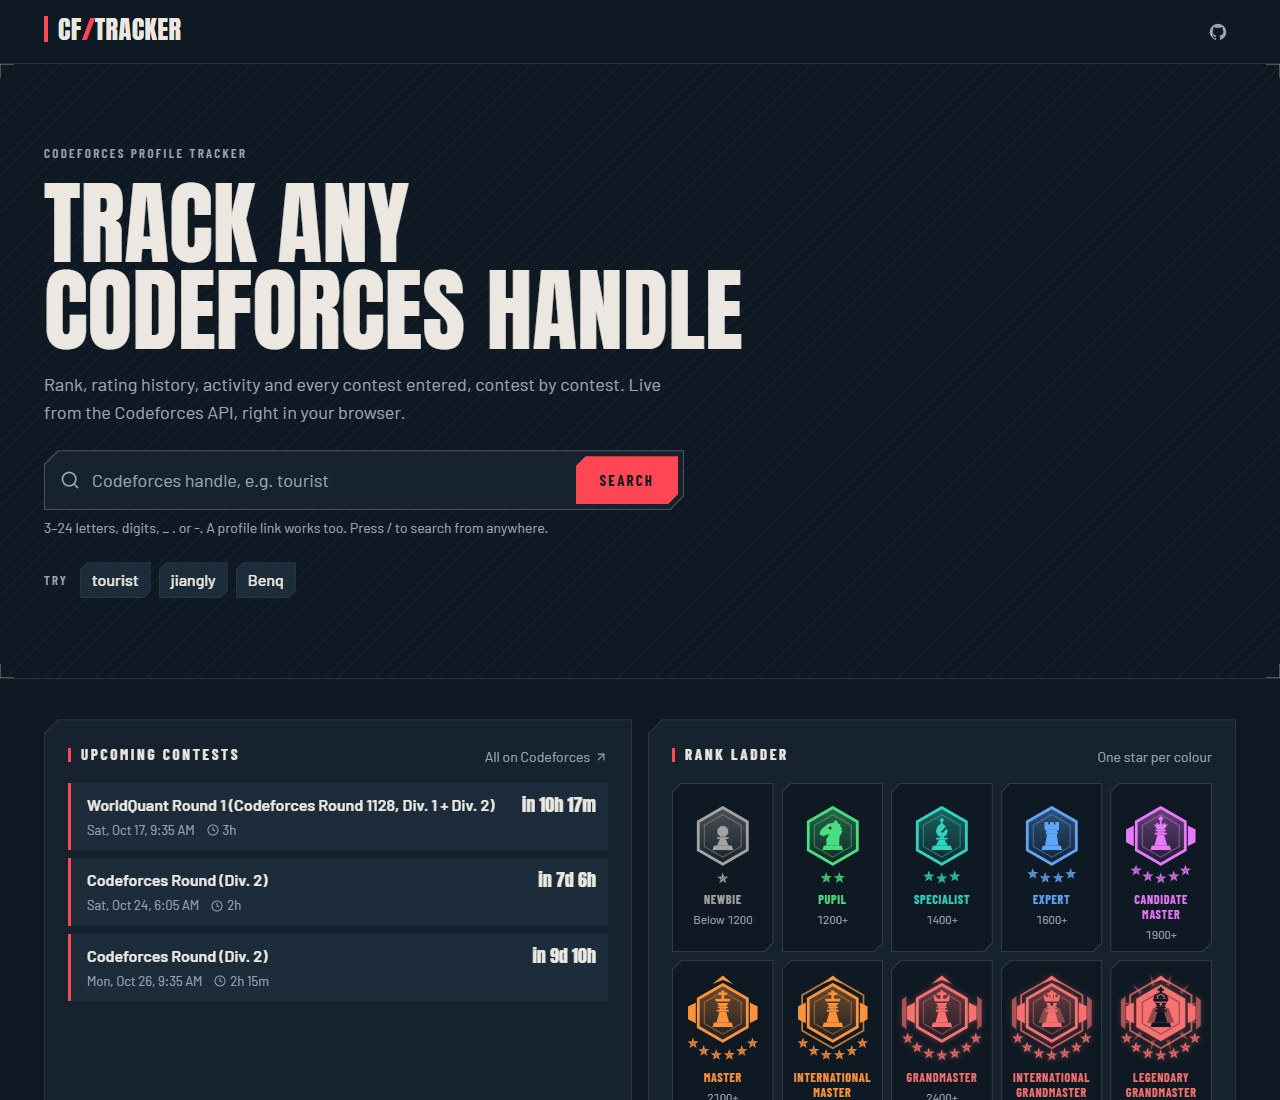
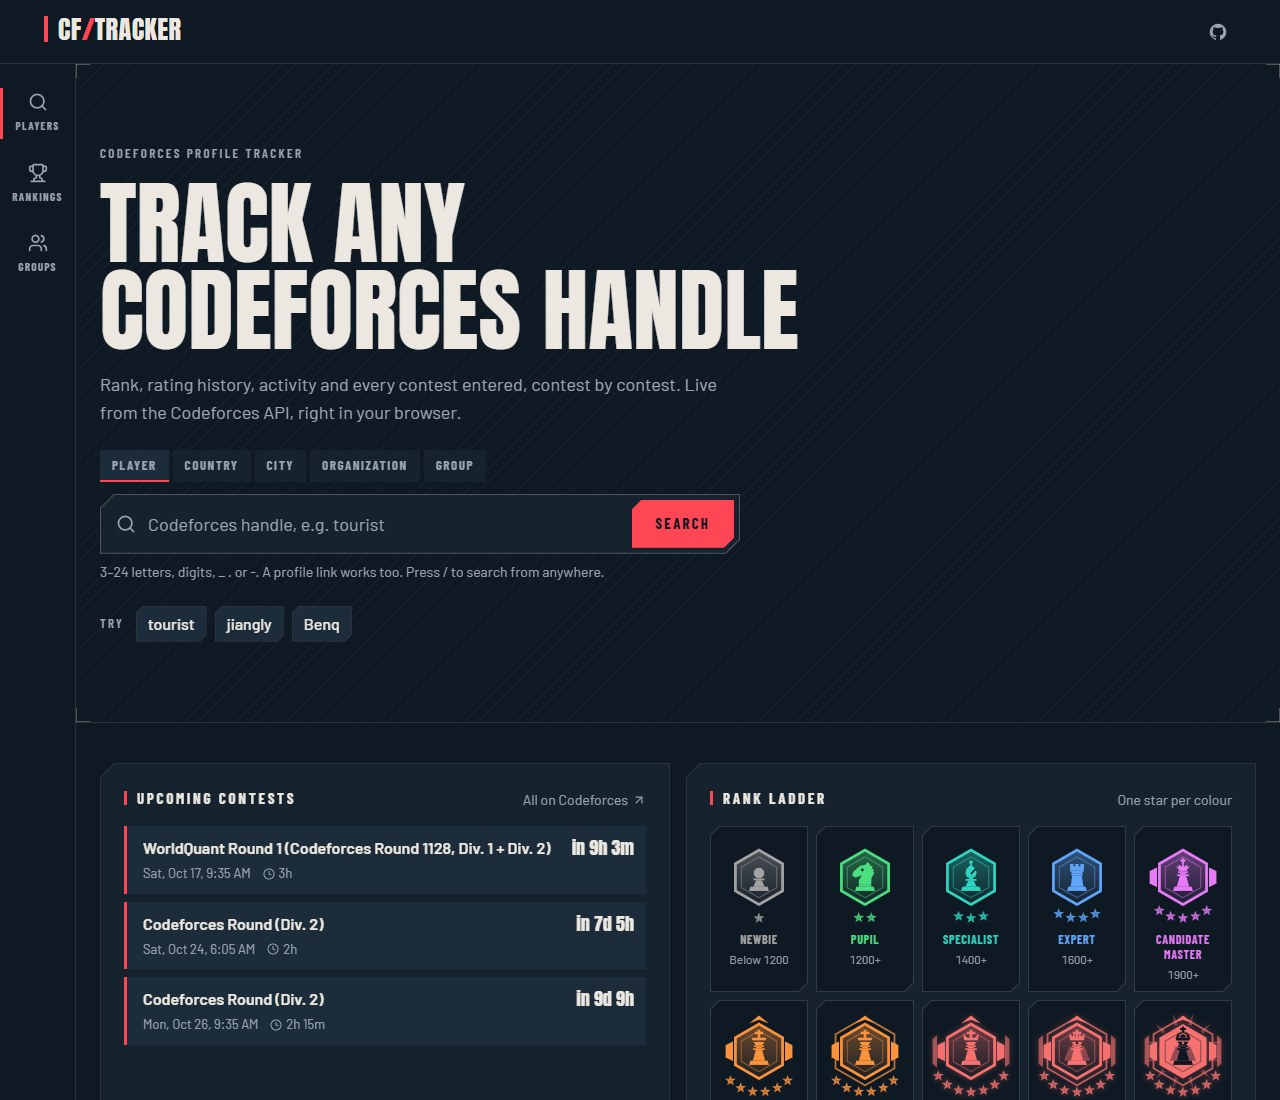
docs: rankings, groups and navigation in the README and design notes

diff --git a/README.md b/README.md
@@ -15,6 +15,8 @@ match history, styled like a game tracker. Think tracker.gg for Valorant, but fo
   <img src="docs/screenshots/mobile.jpg" alt="A profile header on a phone" width="28%">
 </p>
 
+![The ranking of Colombia: players, how many competed this month, average, team rating of the best three, and the list with emblems, ratings, cities and organizations](docs/screenshots/ranking.jpg)
+
 ## Features
 
 - **Search any handle.** The handle is checked in the browser (3–24 letters, digits, `_`, `.` or `-`)
@@ -34,17 +36,29 @@ match history, styled like a game tracker. Think tracker.gg for Valorant, but fo
   (best place, biggest gain, biggest loss).
 - **Upcoming contests** on the home page, with a countdown.
 - **Compare two handles** side by side, including the contests both of them entered.
+- **Rankings** by country, city and organization: every rated player who was on Codeforces in the last
+  month, in order, with the average rating and the team rating of the best three. A profile shows the
+  player's place in each (`#58 Colombia`), and its organization, city and country link to them.
+- **Groups** of your own (friends, a team, a class): members ranked live, with their average and their
+  best team of three. Groups stay in your browser and can be shared by link. Codeforces does not publish
+  anyone's friends or groups, so these are yours to make.
+- **Search by scope** on the home page: a player, a country, a city, an organization or one of your groups,
+  with suggestions as you type.
 
 Ranks are drawn as original angular emblems, one per rank, with a roman numeral for the division
 within the rank (Pupil II, Legendary Grandmaster IV…). Codeforces has no rank artwork of its own.
 
 ## Usage
 
-| What                   | How                                                   |
-| ---------------------- | ----------------------------------------------------- |
-| Look up a handle       | Type it in the search box, or open `?handle=<handle>` |
-| Compare two handles    | `?handle=<a>&vs=<b>`                                  |
-| Jump to the search box | Press `/`                                             |
+| What                      | How                                                   |
+| ------------------------- | ----------------------------------------------------- |
+| Look up a handle          | Type it in the search box, or open `?handle=<handle>` |
+| Compare two handles       | `?handle=<a>&vs=<b>`                                  |
+| Rankings                  | `?rankings`                                           |
+| A country's ranking       | `?country=<name>`, a city in it: `&city=<name>`       |
+| An organization's ranking | `?org=<name>`                                         |
+| Your groups               | `?groups`; a group's “Copy share link” gives its URL  |
+| Jump to the search box    | Press `/`                                             |
 
 Every view is a plain URL, so it can be bookmarked or shared, and the browser's back and forward buttons
 work. Paths like `/u/tourist` are not used because GitHub Pages cannot route them.
@@ -61,6 +75,10 @@ directly; it answers with `Access-Control-Allow-Origin: *`, so no proxy or key i
 | `user.status`  | Activity, solved problems, streaks, per-contest problems and attempts, languages, tags |
 | `contest.list` | Contest names, durations, phases and upcoming contests                                 |
 
+| Daily, at build time | Used for                                                             |
+| -------------------- | -------------------------------------------------------------------- |
+| `user.ratedList`     | Rankings by country, city and organization; a player's place in each |
+
 - **Rate limit.** Codeforces allows about one call every two seconds. When it answers HTTP 429 or
   `Call limit exceeded`, the request is retried after 2, 4 and 6 seconds. At most three requests are
   in flight at once.
@@ -71,6 +89,13 @@ directly; it answers with `Access-Control-Allow-Origin: *`, so no proxy or key i
   6 MB of JSON). It is downloaded, parsed and processed once, in a Web Worker, so the page never freezes;
   the results then render in a React transition. Measured on the production build with `jiangly`, no
   main-thread task reaches 50 ms on a desktop CPU.
+- **Rankings snapshot.** Codeforces serves its list of rated users without CORS headers, so the browser
+  cannot fetch it. The deploy workflow downloads it once a day (`npm run data`, in
+  `scripts/build-rankings.ts`) and publishes it with the site as `data/rankings.json`: about 136,000
+  players, 1.5 MB gzipped. A Web Worker parses it; the rankings are up to a day old, profiles stay live.
+  If Codeforces cannot be reached, the copy already published is kept.
+- **Groups** live in `localStorage`. A share link carries the group's name and members, and their
+  ratings come live from one `user.info` call.
 - **Photos.** `userpic.codeforces.org` sometimes fails, and its CDN can cache the error for days. The
   photo is tried as given, then with a cache-busting query, then the small avatar, then a neutral local
   image.
@@ -82,7 +107,7 @@ for up to three days after it ends.
 
 ## Run locally
 
-Requires Node.js 22.
+Requires Node.js 22.18 or newer (the data script runs TypeScript directly).
 
 ```bash
 git clone https://github.com/MakingMeans/codeforces-tracker.git
@@ -92,6 +117,8 @@ npm run dev
 ```
 
 Then open http://localhost:5173/codeforces-tracker/. The sub-path matches the one GitHub Pages serves.
+The rankings pages need the daily snapshot: run `npm run data` once (it writes the git-ignored
+`public/data/rankings.json`).
 
 ### Scripts
 
@@ -100,6 +127,7 @@ Then open http://localhost:5173/codeforces-tracker/. The sub-path matches the on
 | `npm run dev`     | Development server with hot reload                |
 | `npm run build`   | Type-check and build the static site into `dist/` |
 | `npm run preview` | Serve the production build locally                |
+| `npm run data`    | Download the rankings snapshot from Codeforces    |
 | `npm run lint`    | ESLint                                            |
 | `npm test`        | Vitest, for the data rules                        |
 | `npm run format`  | Prettier                                          |
@@ -113,13 +141,16 @@ across a daylight-saving change.
 src/
   lib/
     api/          Codeforces client: retries, rate limiting, cancellation, typed errors
-    codeforces/   pure data rules: ranks, contests, activity, insights, comparison (tested)
+    codeforces/   pure data rules: ranks, contests, activity, insights, comparison, team rating (tested)
+    rankings/     the daily snapshot: its format, reading it, and the rankings it answers (tested)
+    groups.ts     your own groups, kept in this browser (tested)
     charts/       scales and grids behind the charts (tested)
     emblem.ts     the rank emblems as SVG markup (tested against docs/design)
-  workers/        the details worker: downloads and processes user.status off the main thread
+  workers/        the details and rankings workers: big downloads parsed off the main thread
   components/     layout · ui · search · home · profile · charts · history · compare · states
-  pages/          home, profile, compare
+  pages/          home, profile, compare, rankings, ranking, groups, group
   index.css       design tokens and the few component styles written as CSS
+scripts/          build-rankings.ts: the daily rankings snapshot, run in the deploy workflow
 tests/fixtures/   small hand-written API responses used by the tests
 docs/DESIGN.md    design system: colours, type, shapes, charts, emblems
 docs/design/      approved visual sample, rank emblem source, reference sheet and SVG exports
@@ -128,8 +159,10 @@ public/           static files, resolved through import.meta.env.BASE_URL
 
 ## Deployment
 
-`.github/workflows/deploy.yml` builds the site and publishes it to GitHub Pages on every push to `main`.
-The repository uses **Settings → Pages → Source: GitHub Actions**.
+`.github/workflows/deploy.yml` builds the site and publishes it to GitHub Pages on every push to `main`,
+and once a day on a schedule to refresh the rankings snapshot. The repository uses **Settings → Pages →
+Source: GitHub Actions**. GitHub pauses scheduled workflows in repositories with no activity for 60 days;
+the workflow can also be run by hand from the Actions tab.
 
 The site lives under a repository sub-path, so `vite.config.ts` sets `base: '/codeforces-tracker/'` and
 files in `public/` are referenced through `import.meta.env.BASE_URL`.
@@ -163,6 +196,7 @@ Issues and pull requests are welcome.
 - [x] Accessibility pass, screenshots
 - [x] First deployment to GitHub Pages
 - [x] Rank divisions on the emblems
+- [x] Rankings by country, city and organization, and groups of your own
 
 ## Credits
 

diff --git a/docs/DESIGN.md b/docs/DESIGN.md
@@ -102,6 +102,9 @@ All from Google Fonts with `display=swap`.
 - **Cut corners.** Top-left and bottom-right corners are cut at 45° with `clip-path`. The cut is
   painted on two pseudo-element layers, `::before` for the 1 px line and `::after` for the fill,
   never on the element itself. That way the element's focus outline is never clipped.
+- **Text fields are not cut.** Inputs cannot have pseudo-elements, so they get a plain 1 px
+  `line-strong` border on `surface-2` instead (`fieldClass`). A field that needs the cut, like the
+  big search, is wrapped in a cut box.
 - **Corner ticks.** 14 px L-shaped marks in `line`, drawn with background gradients.
 - **Stripes.** A `repeating-linear-gradient(-45deg, …)` at 3.5 % opacity behind hero areas and
   headers.
@@ -124,6 +127,40 @@ All motion is CSS; there is no animation library.
 - No layout animations on long lists, such as the match history.
 - The loading indicator is a diagonal scanning bar (`animate-scan`), which stays still with reduced
   motion.
+
+## Navigation
+
+Three sections, the same everywhere: **Players** (search, profiles, comparisons), **Rankings** and
+**Groups**.
+
+- **Desktop.** A 76 px rail on the left, under the top bar, that stays in view. Each section is an
+  icon over an 11 px uppercase label: icons alone read worse. The current one is in `ink` with a 3 px
+  red bar on its left and `aria-current="page"`.
+- **Phones** (under 768 px). The same sections as a tab bar fixed to the bottom edge, the current one
+  marked by a red bar on top. Pages leave 64 px plus the safe-area inset free at the bottom.
+- **Top bar.** The wordmark, the handle search on every page but the home page, and the GitHub link.
+
+## Rankings and groups
+
+- **Search with a scope.** Above the field, chips pick what to find: Player, Country, City,
+  Organization or Group. Places are suggested as you type from the daily snapshot, accents ignored;
+  names that start with the text come first, then the biggest. It is a WAI-ARIA combobox: arrow keys
+  move through the list, Enter opens, Escape closes.
+- **Stat tiles.** A big Anton number over a small label, ratings in their rank colour: players,
+  competed this month, average, and **Team rating · top 3**, Codeforces' team formula on the best
+  three (the rating of a player the team would beat half the time, the team winning if any member
+  wins).
+- **Player tables.** Fixed layout, so long handles are cut instead of widening the page. Place in
+  Anton; the emblem at 44 px with its division; the handle in its rank colour, linking to the profile;
+  rating in rank colour, best rating muted. City, organization or country columns are hidden on
+  phones. Equal ratings share a place (1, 2, 2, 4).
+- **Competed this month.** A 7 px `win` square after the handle, with the words for screen readers.
+- **The player you came from.** Arriving from a profile's chip, their row is tinted, outlined in
+  `win` with a 4 px bar, and scrolled into view. When they are far down, the list shows its first
+  page, a `···` gap, then the rows around them.
+- **Profile chips.** Under the location, which links to each ranking: one chip per place
+  (`#58 Colombia`, the number in Anton), one per group of yours the player is in, and **Add to
+  group**, a small panel with a checkbox per group and a field to start a new one.
 
 ## Match history rows
 
@@ -232,7 +269,7 @@ The table lives in `src/lib/codeforces/ranks.ts` (`DIVISIONS`, `divisionFor`) an
 
 - **Sizes.** 140 px in the profile header, up to 100 px on the home page's rank ladder (the
   emblem fills its cell), 92 px on the rating card, 84 px in the match history (64 px in rows on
-  phones), 80 px in the comparison header.
+  phones), 80 px in the comparison header, 44 px in ranking and group tables.
   Stars are countable from 44 px up; at 28 px they read as a row of dots.
 - **Accessibility.** Every emblem has `role="img"`, an `aria-label` and a `<title>` with the rank
   name and star count. Next to text, the rank name is always written out too.
